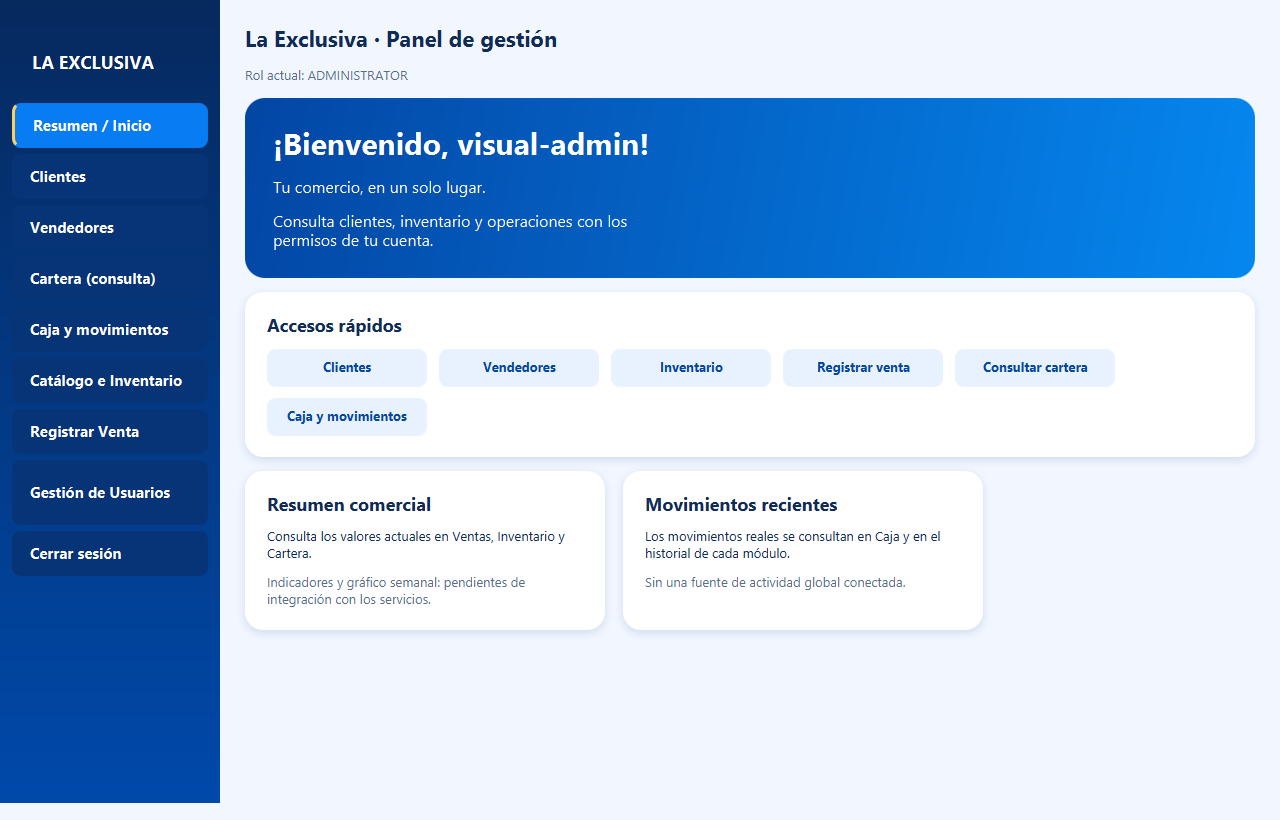
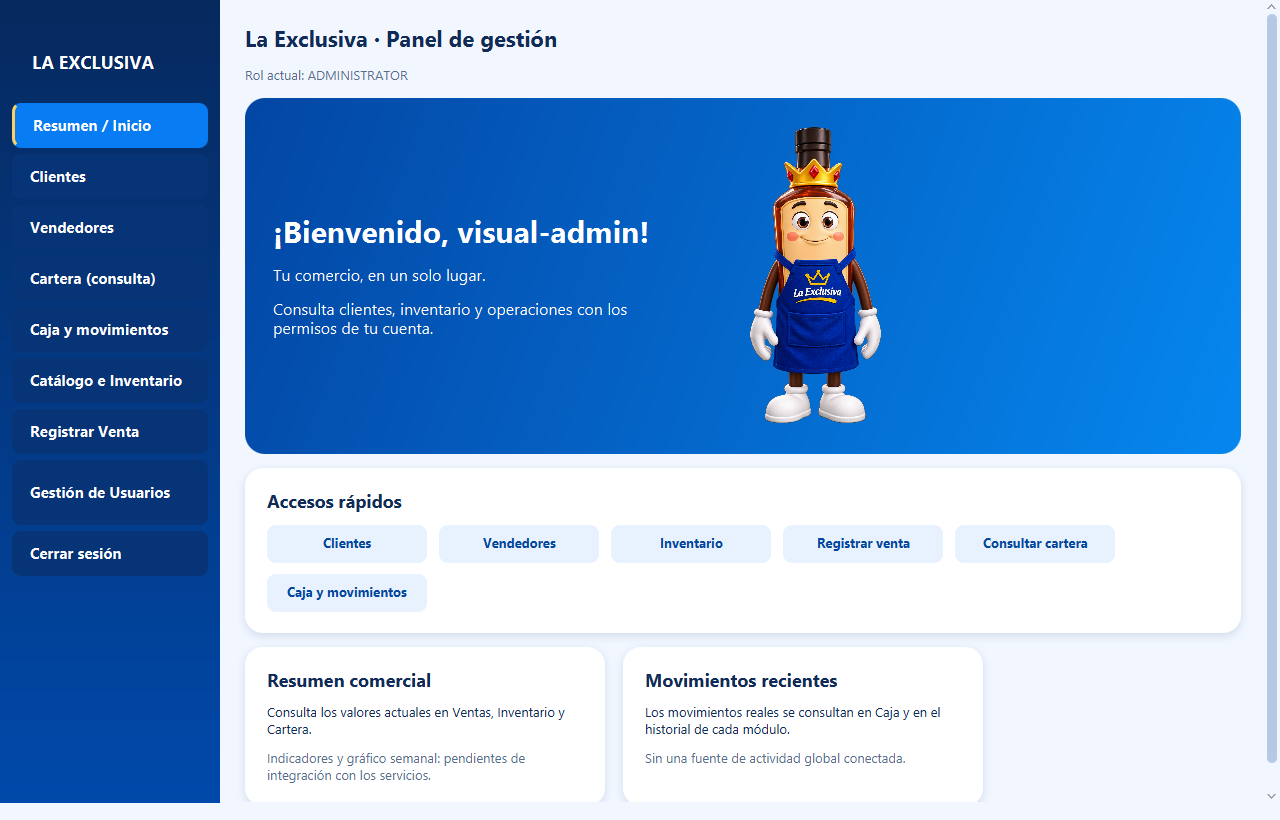
feat(ui): integrate approved transparent mascot

diff --git a/src/test/java/com/laexclusiva/ui/VisualRefreshTest.java b/src/test/java/com/laexclusiva/ui/VisualRefreshTest.java
@@ -268,6 +268,50 @@ class VisualRefreshTest {
     }
 
     @Test
+    void approvedMascotLoadsUnchangedWithRealTransparency() throws Exception {
+        try (var input = getClass().getResourceAsStream("/com/laexclusiva/ui/images/mascot/mascot-blue-transparent.png")) {
+            assertNotNull(input);
+            byte[] bytes = input.readAllBytes();
+            String digest = java.util.HexFormat.of().formatHex(java.security.MessageDigest.getInstance("SHA-256").digest(bytes));
[1 lines of base64/hex data omitted]
+                    "El recurso debe ser exactamente el original aprobado, sin reconstrucciones");
+            javafx.scene.image.Image image = new javafx.scene.image.Image(new java.io.ByteArrayInputStream(bytes));
+            assertFalse(image.isError());
+            assertEquals(931, image.getWidth()); assertEquals(1690, image.getHeight());
+            assertEquals(0, image.getPixelReader().getColor(0, 800).getOpacity());
+            assertTrue(image.getPixelReader().getColor(465, 845).getOpacity() > .9);
+        }
+    }
+
+    @Test
+    void mascotFitsWideAndCompactBannersWithoutCroppingOrCoveringText() throws Exception {
+        onFx(() -> {
+            ApplicationServices services = ApplicationServices.create("memory", Map.of());
+            UserSession session = issue(services, UserRole.ADMINISTRATOR);
+            for (int width : new int[]{1280, 800, 700}) {
+                FXMLLoader loader = loader("main_menu_view.fxml");
+                BorderPane root = loader.load();
+                MainController controller = loader.getController();
+                controller.setApplicationServices(services); controller.initSession(session);
+                new Scene(root, width, 820); root.applyCss(); root.layout();
+                javafx.scene.image.ImageView mascot = (javafx.scene.image.ImageView) loader.getNamespace().get("mascotImage");
+                javafx.scene.layout.FlowPane banner = (javafx.scene.layout.FlowPane) loader.getNamespace().get("welcomeBanner");
+                assertNotNull(mascot.getImage()); assertFalse(mascot.getImage().isError());
+                assertTrue(mascot.isPreserveRatio()); assertNull(mascot.getViewport()); assertNull(mascot.getClip());
+                var bounds = mascot.getBoundsInParent();
+                assertEquals(931.0 / 1690, bounds.getWidth() / bounds.getHeight(), .001);
+                assertTrue(bounds.getMinX() >= 0 && bounds.getMinY() >= 0);
+                assertTrue(bounds.getMaxX() <= banner.getWidth() + .5);
+                assertTrue(bounds.getMaxY() <= banner.getHeight() + .5);
+                assertFalse(bounds.intersects(banner.getChildren().get(0).getBoundsInParent()), "No debe tapar el texto");
+                assertFalse(mascot.getAccessibleText().isBlank());
+                snapshot(root, "dashboard-mascot-" + width);
+            }
+            return null;
+        });
+    }
+
+    @Test
     void customerFormWrapsAtNarrowWidthWithoutChangingInjectedContainer() throws Exception {
         onFx(() -> {
             FXMLLoader loader = loader("customers_view.fxml");

diff --git a/docs/ui-modernization.md b/docs/ui-modernization.md
@@ -10,21 +10,23 @@ Se integró `origin/develop` en `feature/ui-modernization` mediante merge normal
 
 1. **Sincronización y funcionalidades:** el dashboard principal conserva todos los controles/handlers del PR #24. La pantalla administrativa muestra usuarios reales del repositorio de la composición; no vuelve al botón deshabilitado del primer borrador. Las pruebas cubren administración, seis destinos de navegación, sesión sintética rechazada, sesión revocada y recuperación cuando no se puede regresar al login.
 2. **Login:** el controlador conserva su estilo rojo inline y sus mensajes. El CSS proporciona al mensaje un fondo opaco `#080c12`: tanto el rojo heredado como el texto claro tienen contraste de texto normal >= 4.5:1. No se intenta ganar la cascada con selectores ni se altera el controlador. El aviso se gestiona visualmente cuando tiene texto; se comprueban campos ausentes, credenciales incorrectas y fallo del servicio, además del borrado de la contraseña.
-3. **Identidad de escritorio:** solo se reservan rutas de recursos originales; no hay logos inventados, imágenes generadas ni iconos ficticios. Falta el logo independiente y el PNG original azul con transparencia, según la decisión expresa del usuario. No se ha integrado ni comprobado el icono de ventana/barra de tareas.
+3. **Identidad de escritorio:** solo se reservan rutas de recursos originales; no hay logos inventados, imágenes generadas ni iconos ficticios. La mascota original azul transparente ya está integrada; sigue faltando el logo independiente aprobado. No se ha integrado ni comprobado el icono de ventana/barra de tareas.
 4. **Permisos y ventanas pequeñas:** todos los accesos rápidos reflejan visible/managed/disabled de sus botones de navegación. Las pruebas comparan su disponibilidad con permisos reales de ADMINISTRATOR y WORKER; Clientes, Cartera e Inventario están autorizados para ambos roles actuales. Vendedores, Caja y Administración no aparecen para WORKER. Toda acción sigue revalidándose en los controladores/servicios del PR #24; ocultar controles no sustituye esa autorización. Logout deshabilita también los accesos rápidos. Cartera, Inventario y Login usan ScrollPane; los formularios pueden distribuirse en varias filas y las tablas mantienen una altura mínima legible.
 
 Los indicadores globales, curva semanal y actividad unificada del prototipo siguen pendientes de fuentes públicas del controlador. No se introducen cifras ilustrativas como datos reales ni botones para funciones inexistentes.
 
-## Recursos aprobados pendientes
+## Mascota integrada y recursos pendientes
 
 Estructura preparada bajo `/com/laexclusiva/ui/images/` en el classpath:
 
 - `brand/logo-original.svg` o `.png` y `brand/icons/la-exclusiva-{16,32,48,64,128,256}.png`; ICO `brand/icons/la-exclusiva.ico`.
 - `mascot/mascot-blue-transparent.png`: botella original con rostro, corona, proporciones y logo intactos, delantal azul y transparencia real.
 
-Los README de esas carpetas describen los archivos esperados; **todavía no existen esos gráficos** y los FXML no intentan cargarlos. La captura roja y las dos ediciones generativas descartadas no forman parte del producto. Cuando llegue el PNG aprobado se integrará sobre el degradado del banner sin rectángulo, marco o tarjeta opaca.
[1 lines of base64/hex data omitted]
 
-Carlos debe coordinar cualquier `stage.getIcons().addAll(...)` en App.java y la configuración del ICO del launcher Windows. Se necesitan los originales antes de preparar sus variantes, y una comprobación real de ventana/barra de tareas antes de declarar esa parte terminada.
+Los README describen la procedencia y las rutas. El logo independiente y sus variantes de iconos **todavía no existen** y no se cargan archivos ausentes ni se extrae el logo del delantal. La captura roja y las ediciones generativas descartadas siguen fuera del producto.
+
+Carlos debe coordinar cualquier `stage.getIcons().addAll(...)` en App.java y la configuración del ICO del launcher Windows. Se necesitan los originales antes de preparar sus variantes, y una comprobación real de ventana/barra de tareas antes de declarar esa parte terminada. La [propuesta concreta de integración de escritorio](desktop-identity-integration.md) describe Stage, barra de tareas, acceso directo y futuro instalador; solo se consultó la ayuda de jpackage 17, sin empaquetar ni modificar el launcher.
 
 ## Verificación del 23/11/2026
 
@@ -34,16 +36,16 @@ Temurin 17.0.21+9, Maven 3.9.12, JavaFX 17.0.2. Comando local, con variables de 
 mvn -o -Dlaexclusiva.test.postgres.users=false -Dlaexclusiva.test.postgres.userSecurityVersion=false -Dlaexclusiva.test.postgres.accountInstance=false clean verify
 ```
 
-**828 casos: 769 aprobados, 59 integraciones PostgreSQL omitidas, 0 fallos y 0 errores; BUILD SUCCESS.** `git diff --check` también se revisa antes de publicar.
+**830 casos: 771 aprobados, 59 integraciones PostgreSQL omitidas, 0 fallos y 0 errores; BUILD SUCCESS.** `git diff --check` también se revisa antes de publicar.
 
-Nueve pruebas de VisualRefreshTest: carga de ocho vistas, navegación/admin real, distribución de Clientes, permisos por rol, rechazo de sesión sintética/revocada, logout y recuperación, paridad entre dashboard principal/alternativo, mensajes de login y contraste, desplazamiento de Cartera/Inventario. Son pruebas automatizadas sobre JavaFX real, no una revisión manual ni validación de PostgreSQL.
+Once pruebas de VisualRefreshTest: carga de ocho vistas, navegación/admin real, distribución de Clientes, permisos por rol, rechazo de sesión sintética/revocada, logout y recuperación, paridad entre dashboard principal/alternativo, mensajes de login y contraste, desplazamiento de Cartera/Inventario, integridad y alfa del PNG aprobado, carga desde classpath, proporción y límites del banner a 1280/800/700 px sin recorte ni solapamiento del texto. Son pruebas automatizadas sobre JavaFX real, no una revisión manual ni validación de PostgreSQL.
 
-La primera suite completa detectó diez errores de montaje visual en pruebas antiguas que hacían `lookup()` antes de aplicar CSS a ScrollPane; otra repetición aisló tres casos de Cartera sin Scene. Se añadió Scene/CSS/layout a esos montajes, **sin quitar ni debilitar ninguna aserción de contraseñas, autorización o saldos**. No se modificó código de autenticación ni servicios comerciales.
+En la revisión anterior (`eceb23f`), la primera suite completa detectó diez errores de montaje visual en pruebas antiguas que hacían `lookup()` antes de aplicar CSS a ScrollPane; otra repetición aisló tres casos de Cartera sin Scene. Se añadió Scene/CSS/layout a esos montajes, **sin quitar ni debilitar ninguna aserción de contraseñas, autorización o saldos**. No se modificó código de autenticación ni servicios comerciales.
 
-Capturas reales mediante JavaFX `Node.snapshot`, con datos ficticios únicamente en fixtures memory: [login](ui-review/login.png), [error de login](ui-review/login-error.png), [dashboard](ui-review/dashboard.png), [dashboard compacto](ui-review/dashboard-compact.png), [Clientes compacto](ui-review/customers-compact.png), [Cartera compacta al final del desplazamiento](ui-review/portfolio-compact.png), [Inventario compacto al final del desplazamiento](ui-review/inventory-compact.png). No representan el marco ni la barra de tareas de Windows.
+Capturas reales mediante JavaFX `Node.snapshot`, con datos ficticios únicamente en fixtures memory: [login](ui-review/login.png), [error de login](ui-review/login-error.png), [dashboard](ui-review/dashboard.png), [dashboard compacto](ui-review/dashboard-compact.png), [Clientes compacto](ui-review/customers-compact.png), [Cartera compacta al final del desplazamiento](ui-review/portfolio-compact.png), [Inventario compacto al final del desplazamiento](ui-review/inventory-compact.png), [mascota a 800 px](ui-review/dashboard-mascot-800.png) y [mascota a 700 px](ui-review/dashboard-mascot-700.png). No representan el marco ni la barra de tareas de Windows.
 
 ## Pendientes para revisión final
 
-- Usuario/Carlos: logo original independiente y mascota original azul transparente; verificación visual definitiva con esos recursos.
+- Usuario/Carlos: logo original independiente y aprobación de sus variantes PNG/ICO; revisión visual de la mascota ya integrada y del conjunto final.
 - Carlos: integración Stage/launcher, fuentes de indicadores y recorrido manual coordinado de login, administración y logout.
 - El PR permanece en Draft; no se hace merge a develop. No se ejecutan SQL, migraciones ni PostgreSQL en esta actividad.

diff --git a/docs/ai-usage/developer2-ai-log.md b/docs/ai-usage/developer2-ai-log.md
@@ -666,3 +666,14 @@ los resultados; no se usan por sí solos para atribuir uso de IA.
 * **Qué se acepta, modifica o descarta y por qué:** Se mantuvieron intactos App.java, controladores y servicios; el rojo inline se conserva con un fondo CSS que garantiza contraste. No se inventaron recursos de marca: solo se reservaron sus rutas. Se ajustó Scene/CSS/layout en pruebas existentes tras detectar errores de lookup previos a la creación del skin, sin retirar aserciones.
 * **Verificación realizada:** Temurin 17.0.21+9, Maven offline `clean verify`: 828 casos, 769 aprobados, 59 PostgreSQL omitidos, 0 fallos/errores; nueve pruebas visuales aprobadas. Se comprobaron permisos de ambos roles, administración, rechazo de sesión sintética/revocada, logout con recuperación, tres mensajes de login con contraste >= 4.5:1 y desplazamiento compacto. Se renovaron capturas JavaFX reales. Las primeras suites fallidas y la corrección del montaje visual se documentan en `docs/ui-modernization.md`. Sin SQL, migraciones ni revisión manual fingida. Entradas anteriores preservadas byte por byte.
 * **Commit o Pull Request relacionado:** Continuación del [PR #25](https://github.com/carloscamelo2008-lang/la-exclusiva-p3/pull/25), que permanece en Draft; commit de corrección pendiente al registrar esta entrada.
+
+### Interacción 43 – Integración de la mascota original aprobada
+
+* **Fecha:** 23/11/2026.
+* **Herramienta:** Codex; inspección local de píxeles/alfa con System.Drawing, sin generar ni reconstruir imágenes con IA.
+* **Fase, tarea y rama:** Identidad visual del dashboard; `feature/ui-modernization`, continuación del PR #25 desde `eceb23f`.
+* **Objetivo de la consulta:** Integrar el PNG original aprobado de la mascota, comprobar transparencia y bordes, conservar las funcionalidades del PR #24 y preparar la coordinación de logo/iconos.
+* **Resumen de la respuesta recibida:** Se copió exactamente `Botella Real La Exclusiva.png` al classpath y se integró con ImageView sobre el degradado del banner en ambos FXML. Se comprobó el alfa sobre fondos azul/blanco/negro; no se observaron residuos visibles que justificaran retocar el archivo. Se preparó documentación concreta de Stage, launcher y accesos directos sin modificar App.java.
+* **Qué se acepta, modifica o descarta y por qué:** Se conserva el adjunto byte por byte, incluidos rostro, corona, sombras, delantal y logo; no se recorta ni se extrae el logo del delantal. El banner distribuye texto e imagen sin solaparlos. El logo independiente y sus variantes PNG/ICO siguen pendientes; no se inventan recursos ni se declara comprobada la barra de tareas.
+* **Verificación realizada:** Temurin 17.0.21+9, Maven offline `clean verify`: 830 casos, 771 aprobados, 59 PostgreSQL omitidos, 0 fallos/errores. Once pruebas visuales, dos adicionales de integridad/alfa y adaptación a 1280/800/700 px. SHA-256 del adjunto, recurso y copia dentro del JAR coincidentes; capturas JavaFX reales actualizadas. La procedencia y los resultados se documentan en el README de la mascota y `docs/ui-modernization.md`. Sin SQL, migraciones, cambios de controladores o servicios; entradas 1–42 preservadas byte por byte.
+* **Commit o Pull Request relacionado:** Continuación del [PR #25](https://github.com/carloscamelo2008-lang/la-exclusiva-p3/pull/25), que permanece en Draft; commit de integración pendiente al registrar esta entrada.

diff --git a/docs/desktop-identity-integration.md b/docs/desktop-identity-integration.md
@@ -1,0 +1,53 @@
+# Identidad de escritorio: propuesta de integración para Carlos
+
+Estado del 23/11/2026: mascota original integrada; **logo independiente e iconos
+todavía pendientes**. No se modifica App.java ni la configuración del launcher.
+
+## Recursos requeridos
+
+Esperar el logo original aprobado, sin extraerlo del delantal ni sustituirlo por
+la mascota. Conservarlo en `com/laexclusiva/ui/images/brand/logo-original.svg`
+o `.png`. Preparar PNG transparentes de 16, 32, 48, 64, 128 y 256 px y un ICO
+multirresolución a partir de ese mismo recurso. Validar legibilidad y bordes
+antes de usar sus variantes. No hay gráficos ficticios en las rutas reservadas.
+
+## Cambio mínimo en JavaFX, sujeto a coordinación
+
+En `App.start(Stage primaryStage)`, antes de `primaryStage.show()`, Carlos podrá
+añadir las imágenes disponibles mediante `primaryStage.getIcons().addAll(...)`.
+Se cargan con `App.class.getResource("/com/laexclusiva/ui/images/brand/icons/la-exclusiva-32.png")`
+y las demás resoluciones, comprobando que cada URL exista antes de construir
+su Image. No copiar esta referencia mientras los archivos sigan ausentes.
+
+La aplicación actual reutiliza el Stage al cambiar entre login y dashboard:
+los iconos pertenecen al Stage y no necesitan reinstalarse al cambiar la Scene.
+Revisar también cualquier futura ventana independiente. Este ajuste no debe
+alterar la composición, autenticación, autorización ni el cierre de sesión.
+
+## Windows y empaquetado
+
+Los iconos del Stage no demuestran por sí solos que el ejecutable, acceso
+directo o agrupación de la barra de tareas estén configurados. Con un launcher
+nativo, Carlos deberá incorporar el ICO a la configuración de jpackage:
+
+```text
+--icon src/main/resources/com/laexclusiva/ui/images/brand/icons/la-exclusiva.ico
+--win-shortcut
+--win-menu
+```
+
+Son opciones propuestas para el empaquetado existente/futuro, no un comando
+completo de construcción ni una configuración aplicada. Se comprobó su
+disponibilidad en `jpackage --help` del Temurin 17 instalado; no se ejecutó
+jpackage para crear instaladores ni se instalaron herramientas.
+
+## Aceptación pendiente
+
+1. Recibir logo original y aprobar sus variantes/legibilidad a tamaño pequeño.
+2. Acordar con Carlos el cambio mínimo de App.java y la configuración del launcher.
+3. Construir y comprobar que el JAR/paquete incluye los recursos.
+4. En Windows real, revisar ventana, barra de tareas, acceso directo y ejecutable,
+   tanto en el primer inicio como después de login/logout y al volver a abrirlo.
+5. Revisar instalación/desinstalación cuando exista un instalador acordado.
+
+Hasta completar esas comprobaciones, la identidad de escritorio sigue pendiente.

diff --git a/src/main/resources/com/laexclusiva/ui/images/mascot/README.md b/src/main/resources/com/laexclusiva/ui/images/mascot/README.md
@@ -1,10 +1,27 @@
-# Mascota original pendiente
+# Mascota original aprobada
 
-Ruta reservada: `/com/laexclusiva/ui/images/mascot/mascot-blue-transparent.png`.
+Recurso: `/com/laexclusiva/ui/images/mascot/mascot-blue-transparent.png`.
+Fuente entregada por el usuario el 23/11/2026: `Botella Real La Exclusiva.png`.
 
-Se espera el recurso original aprobado con delantal azul y transparencia real.
-No sustituirlo por una imagen generada, una captura con fondo o un personaje
-redibujado. Mantener rostro, botella, corona, guantes, proporciones y logotipo.
+- PNG de 931 × 1690 píxeles, 1.413.175 bytes.
[1 lines of base64/hex data omitted]
+- Copia exacta del adjunto: sin redibujar, recortar, recolorear, reescalar el
+  archivo, reconstruir mediante IA ni extraer su logotipo.
+- Alfa real: 816.540 píxeles totalmente transparentes, 756.740 parcialmente
+  transparentes y 110 opacos. Se conserva el alfa original, incluidas sombras
+  y bordes suaves; no se convierte el fondo en un rectángulo opaco.
+- Se inspeccionaron botella/corona y silueta sobre azul, blanco y negro.
+  No se observaron residuos visibles que justificaran retocar el original;
+  no se realizó limpieza destructiva ni modificación de píxeles.
 
-Integrar el PNG sobre el fondo del banner con ImageView, preserveRatio=true,
-sin panel opaco ni marco. No activar la referencia hasta disponer del archivo.
+Ambos dashboard FXML cargan el PNG desde el classpath con ImageView,
+preserveRatio=true, sin viewport de recorte, sin marco ni panel opaco. FlowPane
+mantiene separados texto e imagen y los dispone en filas al reducir el ancho.
+La altura del banner crece y el dashboard permite desplazamiento vertical.
+
+Las pruebas fijan la integridad del recurso aprobado, verifican alfa/carga,
+proporción, ausencia de solapamiento y límites del banner a 1280/800/700 px.
+Una futura sustitución requiere un nuevo original aprobado y actualizar
+conjuntamente esta procedencia y la regresión de integridad.
+
+Este archivo no sustituye al logo independiente ni al icono de Windows.

diff --git a/src/main/resources/com/laexclusiva/ui/images/brand/README.md b/src/main/resources/com/laexclusiva/ui/images/brand/README.md
@@ -9,3 +9,5 @@ Ubicaciones reservadas, todavía sin archivos gráficos:
 Usar `/com/laexclusiva/ui/images/brand/…` desde el classpath. No añadir referencias
 FXML a archivos ausentes. La integración en Stage/App.java y en el launcher se
 coordina con Carlos; estas rutas no significan que el icono ya esté integrado.
+
+La mascota aprobada no sustituye este logo ni debe usarse para extraerlo del delantal. La propuesta de integración para Carlos está en docs/desktop-identity-integration.md del repositorio.
